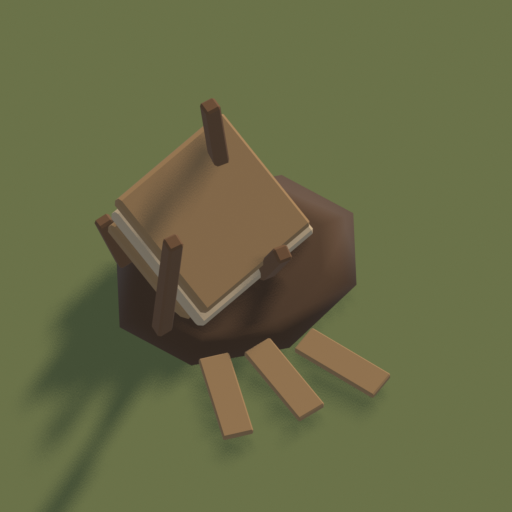
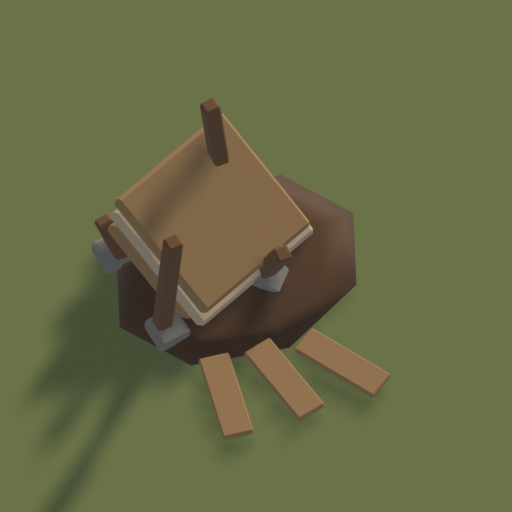
Fun first F2, the wrecked Chute: the same stone pads as the standing one (one knocked askew), so the wreck reads as that chute

Changed region(s): [[0.2812, 0.5938, 0.375, 0.6875], [0.5, 0.5, 0.5625, 0.5938], [0.1562, 0.4688, 0.25, 0.5312]]

diff --git a/art/blender/models/slurry_chute_broken.py b/art/blender/models/slurry_chute_broken.py
@@ -16,5 +16,8 @@ def build():
     p.sphere(0.4, (0.15, -0.1, 0.02), "wet_mud", segments=8, rings=4, scale=(1.4, 1.1, 0.12), smooth=True)  # the spill
     for k, x in enumerate((-0.2, 0.05, 0.3)):
         p.box((0.13, 0.4, 0.03), (x, -0.62 - k * 0.05, 0.03), "fresh_log", bevel=0.006, rotation=(0, 0, 20 * k - 15))
+    # The remodel: the same stone pads as the standing chute (one knocked askew), so the wreck reads as that chute.
+    for x, y, tilt in ((-0.25, -0.22, 0), (0.25, -0.22, 18), (-0.25, 0.22, 0), (0.25, 0.22, -9)):
+        p.box((0.15, 0.15, 0.07), (x, y, 0.04), "fieldstone", bevel=0.02, bevel_segments=2, rotation=(tilt, 0, tilt * 2))
     p.build()
     return tower
